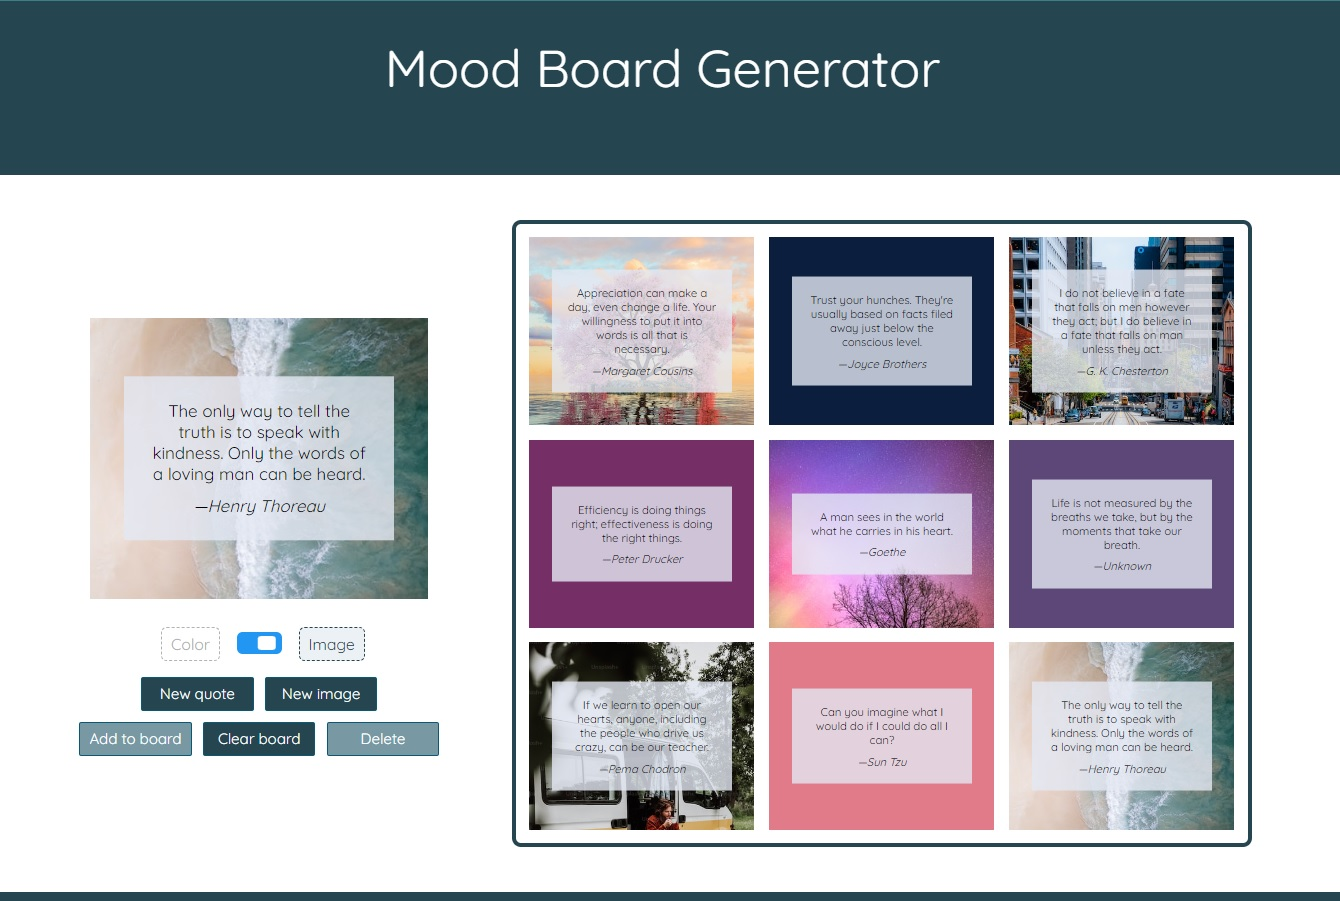
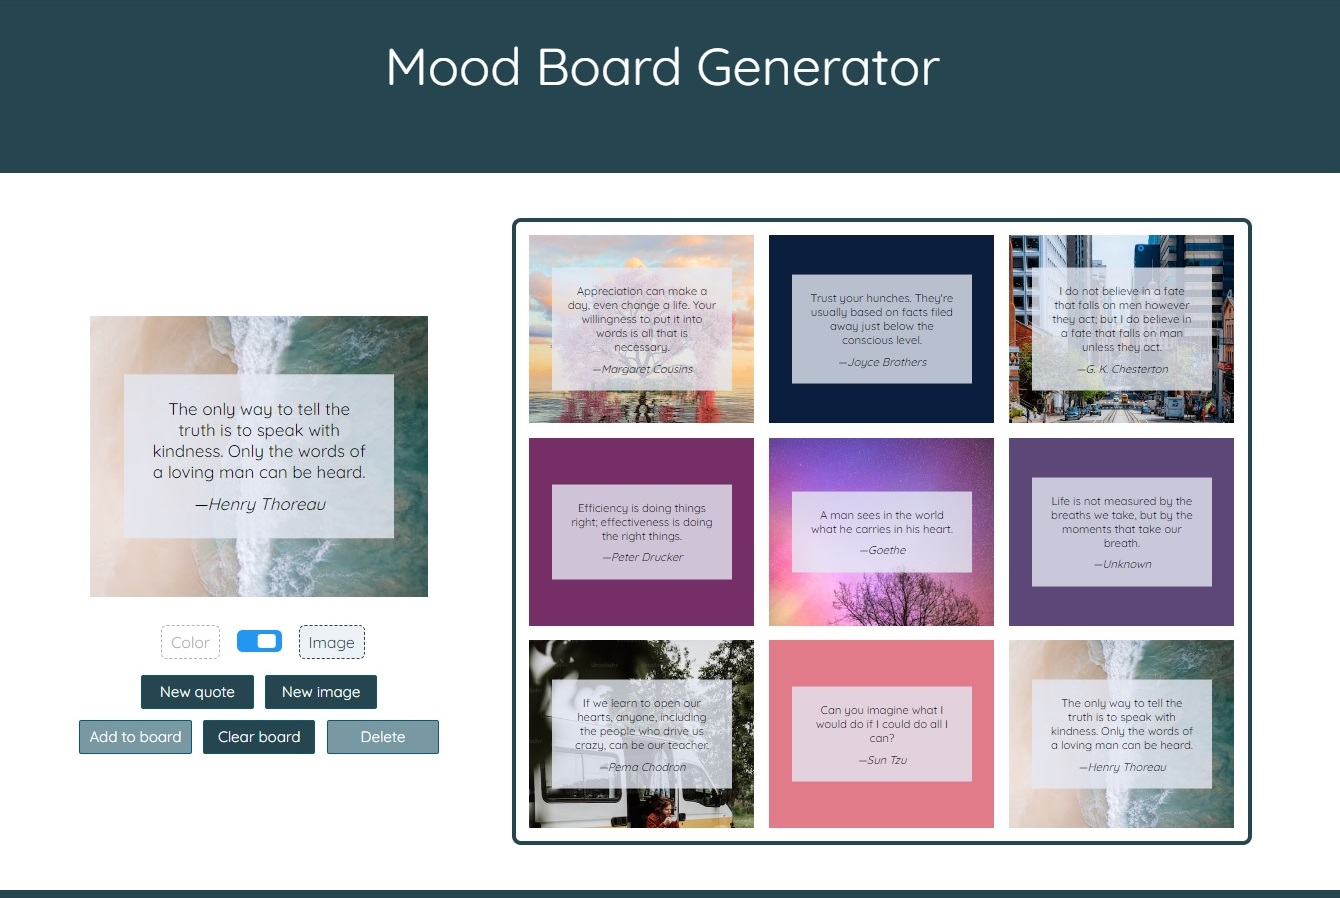
Removed outdated text in README from when the Board was not implemented yet. Edited screenshot to remove extra line at the top of the image.

diff --git a/README.md b/README.md
@@ -4,8 +4,6 @@
 
 This is a React web app to create a mood board consisting of quotes by famous figures displayed over aesthetic images and colors. The quotes are provided by the [Type.fit API](https://type.fit/api/quotes), and the images are fetched from the [Unsplash API](https://unsplash.com/developers).
 
-As of now, the app is in its early stages. The current code simply allows the user to request a new quote and a new background image or color.
-
 ## Setup
 
 An Unsplash API Access Key is required. In the future, this key will be hidden with Netlify functions, but for now the key is stored in an untracked `src/config.js` file:
